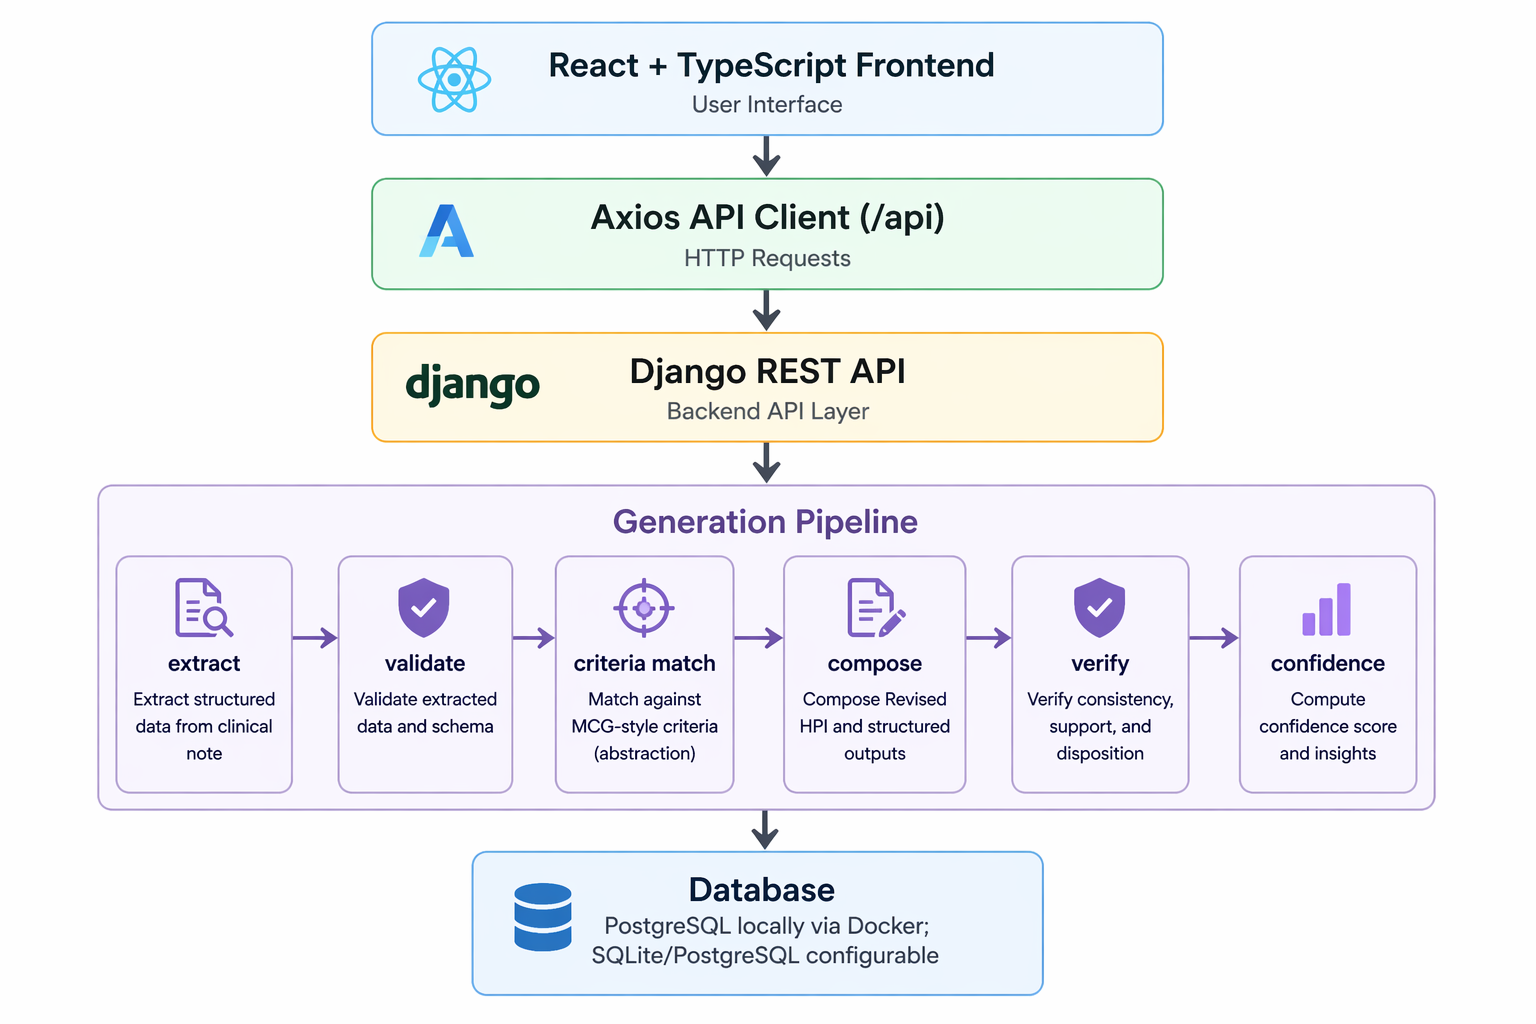
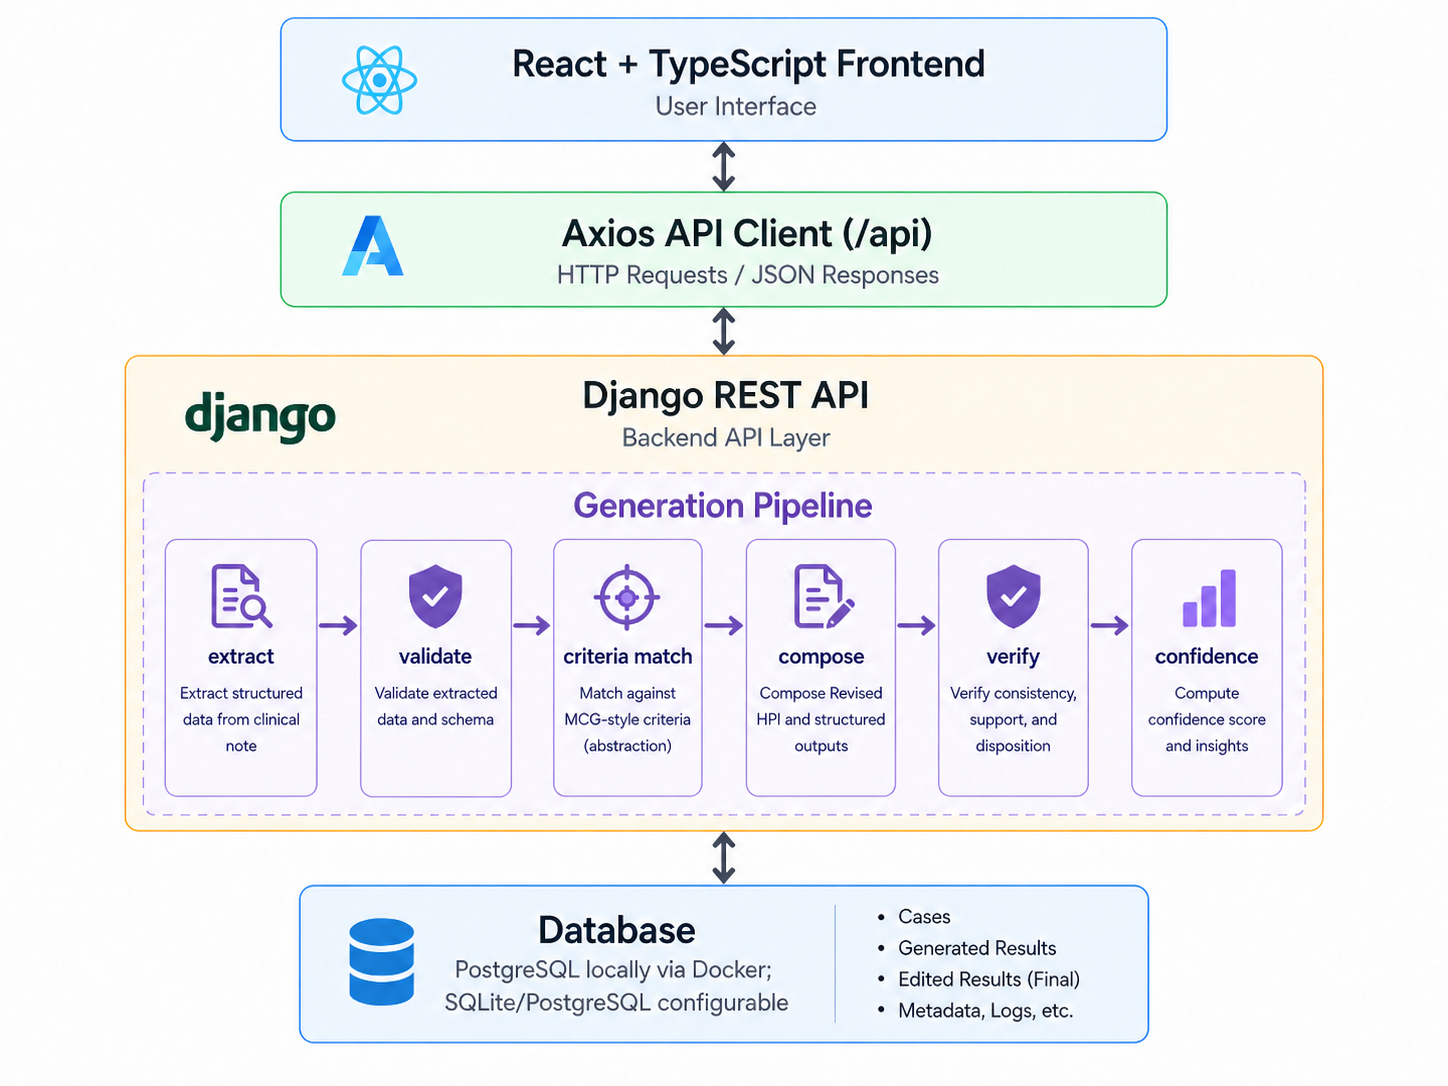
Revised README

Changed region(s): [[0.0622, 0.0, 0.9323, 0.9688]]

diff --git a/README.md b/README.md
@@ -6,26 +6,6 @@ This project is a **technical demonstration** and should **not be used with real
 
 Although the system includes a lightweight PHI/PII protection layer, such as redaction of names, SSN, phone numbers, emails, DOB, MRN/patient IDs, and labeled addresses before LLM calls, it is **not designed to be HIPAA-compliant** and does not provide guarantees for handling protected health information.
 
-### Why this matters
-
-This system uses an LLM-based pipeline to process clinical notes. Even with safeguards, sending real patient data to external or locally hosted models introduces potential risks, including:
-
-- Incomplete or imperfect de-identification, because regex-based redaction is not exhaustive
-- Possible data exposure through model providers, infrastructure, logs, or debugging layers
-- Lack of formal production compliance controls, such as audit logging, access control, encryption policies, and regulatory review
-
-### Design decision
-
-For this reason, the system is intentionally designed as a **development/demo environment**.
-
-- Original notes are preserved for user review
-- A lightweight redaction layer is applied before LLM interaction
-- Safety mechanisms such as uncertainty handling, verification, and confidence scoring focus on **reasoning quality**, not regulatory compliance
-
-This allows rapid iteration on clinical reasoning structure, LLM pipeline design, validation logic, and verification strategies without creating false assumptions of production-level data safety.
-
-> If deployed in a real-world clinical setting, this system would require a fully compliant data-handling pipeline, including robust de-identification, secure infrastructure, access control, audit logging, and regulatory review.
-
 ---
 
 ## Live Demo
@@ -42,13 +22,113 @@ A full-stack clinical note structuring system that converts unstructured ER/H&P 
 
 The system follows a structured multi-stage pipeline (detailed below) to transform clinical notes into structured outputs and a Revised HPI.
 
+## System Architecture
+
+The system follows a layered architecture from frontend to backend, with a structured generation pipeline:
+
+The following diagram illustrates the end-to-end data flow:
+
+![System Architecture](./Data_workflow.png)
+
+The generation pipeline is implemented as a multi-stage process:
+extract → validate → criteria match → compose → verify → confidence
+
+This architecture separates concerns between:
+- UI interaction (frontend)
+- API handling (backend)
+- reasoning and transformation (pipeline)
+- persistence (database)
+
+---
+
+## End-to-End Workflow
+
+1. User inputs clinical note text using ER note, H&P note, or combined original clinical note fields.
+2. The frontend merges note sources into a single `original_note`.
+3. The case is created through `POST /api/cases/`.
+4. The user triggers generation through `POST /api/cases/:id/generate/`.
+5. The backend runs the generation pipeline.
+6. The generated result is persisted.
+7. The frontend displays structured output, Revised HPI, and generation insights.
+8. The user reviews and edits the final result.
+9. The final edited version is saved through `PUT /api/cases/:id/save/`.
+10. The case can later be reopened with both the machine-generated result and the human-edited final result.
+
+
+
+---
+
 ##  Design Decisions & Trade-offs
 
 ### 1. Multi-Stage Pipeline over Single LLM Call
 
 Instead of relying on a single prompt to generate the final output, the system uses a structured multi-stage pipeline:
 
-extract → validate → criteria → compose → verify → confidence
+![Generation pipeline](./Generation_pipeline.png)
+
+```text
+original_note
+  → extract structured output
+  → validate structured data
+  → match criteria / MCG-style logic
+  → reconcile disposition when applicable
+  → compose Revised HPI
+  → verify output
+  → optional one-pass retry
+  → build warnings
+  → calculate admission-support confidence
+  → build uncertainties
+  → persist GeneratedResult
+```
+
+This project intentionally avoids a single-call LLM design. Instead, it uses a staged pipeline so that each step is easier to validate, inspect, and improve.
+
+#### 1. Extraction
+
+The system converts free-text clinical notes into structured JSON fields.
+
+#### 2. Validation
+
+The structured output is normalized and checked for schema consistency. This helps ensure that downstream rendering, editing, saving, and verification use a consistent data shape.
+
+#### 3. Criteria Matching
+
+The backend applies rule-based criteria matching where applicable. In the current version, the criteria layer focuses on diabetes-related admission-support patterns and MCG-style reasoning.
+
+#### 4. Revised HPI Composition
+
+The system composes a Revised HPI from structured facts instead of directly rewriting the raw note. This helps reduce unsupported claims and keeps the narrative aligned with extracted clinical evidence.
+
+#### 5. Verification
+
+The verifier checks the generated Revised HPI and structured output for:
+
+- unsupported claims
+- missing key facts
+- factual consistency
+- disposition consistency
+- criteria alignment issues
+- missing data needed for confident interpretation
+
+#### 6. Optional Retry
+
+If verification indicates that regeneration is needed, the system performs one targeted retry rather than repeatedly looping without control.
+
+#### 7. Warning and Confidence Generation
+
+The system builds user-facing generation warnings and calculates an explainable Admission Support Confidence score based on factors such as:
+
+- verifier result
+- criteria support level
+- critical missing data
+- general missing clinical information
+- unsupported claims
+- disposition inconsistency
+- low-information input
+
+#### 8. Uncertainty Handling
+
+The system explicitly surfaces missing or uncertain information instead of inventing it. This includes both condition-specific missing information and general clinical completeness checks.
 
 This design improves:
 
@@ -58,19 +138,7 @@ This design improves:
 
 ---
 
-### 2. Explicit Uncertainty Handling
-
-Rather than implicitly assuming missing data, the system explicitly surfaces uncertainties (e.g., missing labs, vitals, duration).
-
-This ensures:
-
-- No hallucinated clinical values  
-- Transparency for reviewers  
-- Safer downstream decision interpretation  
-
----
-
-### 3. Verification + Limited Retry Strategy (Demo-Oriented)
+### 2. Verification + Limited Retry Strategy (Demo-Oriented)
 
 A verification step is used to detect:
 
@@ -97,7 +165,7 @@ In a production system, a more advanced retry or self-correction loop could be i
 
 ---
 
-### 4. Warning-Centric Design
+### 3. Warning-Centric Design
 
 Instead of forcing the model to "fix everything," the system:
 
@@ -111,7 +179,7 @@ This aligns with:
 
 ---
 
-### 5. Admission Support Confidence (Rule-Based)
+### 4. Admission Support Confidence (Rule-Based)
 
 A deterministic scoring system is used to estimate documentation support for admission decisions.
 
@@ -129,7 +197,7 @@ This provides:
 
 ---
 
-### 6. Lightweight PHI Protection
+### 5. Lightweight PHI Protection
 
 A simple redaction layer is applied before sending data to the LLM to remove:
 
@@ -147,11 +215,11 @@ A simple redaction layer is applied before sending data to the LLM to remove:
 But:
 
 - Not exhaustive  
-- Not HIPAA-compliant  
+- Not fully HIPAA-compliant  
 
 ---
 
-### 7. External LLM vs Local Model (Cost vs Privacy Trade-off)
+### 6. External LLM vs Local Model (Cost vs Privacy Trade-off)
 
 For this demo, the system uses an external LLM provider (OpenAI API) to:
 
@@ -171,7 +239,7 @@ In a production setting:
 
 ---
 
-### 8. Design Philosophy
+### 7. Design Philosophy
 
 This project prioritizes:
 
@@ -207,109 +275,6 @@ This project prioritizes:
   - save final version
   - reopen saved cases
 
----
-
-## System Architecture
-
-The system follows a layered architecture from frontend to backend, with a structured generation pipeline:
-
-The following diagram illustrates the end-to-end data flow:
-
-![System Architecture](./Data_workflow.png)
-
-The generation pipeline is implemented as a multi-stage process:
-extract → validate → criteria match → compose → verify → confidence
-
-This architecture separates concerns between:
-- UI interaction (frontend)
-- API handling (backend)
-- reasoning and transformation (pipeline)
-- persistence (database)
-
----
-
-## End-to-End Workflow
-
-1. User inputs clinical note text using ER note, H&P note, or combined original clinical note fields.
-2. The frontend merges note sources into a single `original_note`.
-3. The case is created through `POST /api/cases/`.
-4. The user triggers generation through `POST /api/cases/:id/generate/`.
-5. The backend runs the generation pipeline.
-6. The generated result is persisted.
-7. The frontend displays structured output, Revised HPI, and generation insights.
-8. The user reviews and edits the final result.
-9. The final edited version is saved through `PUT /api/cases/:id/save/`.
-10. The case can later be reopened with both the machine-generated result and the human-edited final result.
-
-Backend generation flow:
-
-```text
-original_note
-  → extract structured output
-  → validate structured data
-  → match criteria / MCG-style logic
-  → reconcile disposition when applicable
-  → compose Revised HPI
-  → verify output
-  → optional one-pass retry
-  → build warnings
-  → calculate admission-support confidence
-  → build uncertainties
-  → persist GeneratedResult
-```
-
----
-
-## Generation Pipeline Design
-
-This project intentionally avoids a single-call LLM design. Instead, it uses a staged pipeline so that each step is easier to validate, inspect, and improve.
-
-### 1. Extraction
-
-The system converts free-text clinical notes into structured JSON fields.
-
-### 2. Validation
-
-The structured output is normalized and checked for schema consistency. This helps ensure that downstream rendering, editing, saving, and verification use a consistent data shape.
-
-### 3. Criteria Matching
-
-The backend applies rule-based criteria matching where applicable. In the current version, the criteria layer focuses on diabetes-related admission-support patterns and MCG-style reasoning.
-
-### 4. Revised HPI Composition
-
-The system composes a Revised HPI from structured facts instead of directly rewriting the raw note. This helps reduce unsupported claims and keeps the narrative aligned with extracted clinical evidence.
-
-### 5. Verification
-
-The verifier checks the generated Revised HPI and structured output for:
-
-- unsupported claims
-- missing key facts
-- factual consistency
-- disposition consistency
-- criteria alignment issues
-- missing data needed for confident interpretation
-
-### 6. Optional Retry
-
-If verification indicates that regeneration is needed, the system performs one targeted retry rather than repeatedly looping without control.
-
-### 7. Warning and Confidence Generation
-
-The system builds user-facing generation warnings and calculates an explainable Admission Support Confidence score based on factors such as:
-
-- verifier result
-- criteria support level
-- critical missing data
-- general missing clinical information
-- unsupported claims
-- disposition inconsistency
-- low-information input
-
-### 8. Uncertainty Handling
-
-The system explicitly surfaces missing or uncertain information instead of inventing it. This includes both condition-specific missing information and general clinical completeness checks.
 
 ---
 
@@ -705,16 +670,56 @@ The project was manually smoke-tested for:
 
 ## Future Improvements
 
-If given more time, useful improvements would include:
+### Self-Evolving Prompts
 
-- broader condition-specific admission criteria
-- stronger clinical evidence attribution from generated fields back to source sentences
-- more polished human-readable verification summaries
-- role-based access control and audit logging
-- full production-grade de-identification pipeline
-- deployment hardening and monitoring
-- expanded automated tests for generation edge cases
-- additional multi-layer validation, including extraction output validation, field-level independent validators, and cross-component consistency checks with potential integration of locally deployed LLM models for validation and privacy-sensitive workflows
+The system already tracks which fields clinicians edit and what they change. This data can drive prompt improvement:
+
+- Cluster common correction patterns to identify systematic LLM weaknesses
+- Generate prompt refinement candidates from correction patterns
+- A/B test prompt versions using edit rate as the quality proxy
+- Version prompts with performance metadata for rollback
+
+### Multi-Layer Clinical Reasoning
+
+The current pipeline is linear: extract → compose → verify. A multi-layer architecture would mirror how experienced clinicians think:
+
+```
+Layer 1: Surface Extraction     → "What facts are stated?"
+Layer 2: Clinical Reasoning     → "What clinical picture emerges? What's inconsistent?"
+Layer 3: Disposition Deliberation → Arguments for/against each disposition
+Layer 4: Narrative Synthesis     → Compose HPI incorporating layers 2-3
+```
+
+Each layer's output would be persisted, creating an auditable reasoning trace. This could leverage LLM extended thinking / chain-of-thought capabilities within a single API call.
+
+### Retrieval-Augmented Generation (RAG)
+
+Clinical knowledge is currently embedded in prompts and hardcoded rules. RAG would enable dynamic knowledge access:
+
+- **Criteria Knowledge Base:** Index all admission criteria as retrievable documents; given a patient's findings, retrieve relevant criteria dynamically instead of routing through condition-specific code
+- **Clinical Protocol Reference:** Embed hospital-specific protocols and guidelines for the composer to reference
+- **Case Similarity Search:** Index prior cases and their clinician-edited outputs as few-shot examples, creating a continuously improving knowledge base
+
+### Closed-Loop Feedback System
+
+Connect user edits back to system improvement:
+
+![Evolution Loop](./Feed_back.png)
+
+Key signals: disposition overrides inform reconciliation thresholds, finding additions reveal extraction gaps, finding removals reveal hallucination patterns, and acceptance-without-edit is the strongest quality signal.
+
+### Additional Opportunities
+
+| Idea | Value |
+|------|-------|
+| **Hybrid verification** | Run rule-based checks first; escalate to LLM verification only when ambiguous. Bounds cost while improving coverage. |
+| **Streaming generation** | Show intermediate results progressively (structured fields → criteria → narrative) instead of waiting for the full pipeline. Reduces perceived latency. |
+| **Declarative criteria DSL** | Let clinical staff define admission criteria in YAML/JSON rather than code. Dramatically reduces the cost of adding new conditions. |
+| **Multi-model consensus** | For borderline dispositions, run extraction through multiple LLMs and flag disagreements. Costly but valuable for high-stakes decisions. |
+| **Temporal reasoning** | Track clinical trajectories across serial notes (ER → H&P → progress). Detect trends (glucose trending down, treatment response over time) rather than treating each note independently. |
+| **Explainability** | "Why did the system recommend Admit?" — trace through criteria matches, evidence, and disposition logic. The data already exists; this is primarily a UX investment. |
+| **Comparative case analysis** | Surface similar past cases and their outcomes to help clinicians calibrate their judgment against institutional patterns. |
+
 
 ---
 
